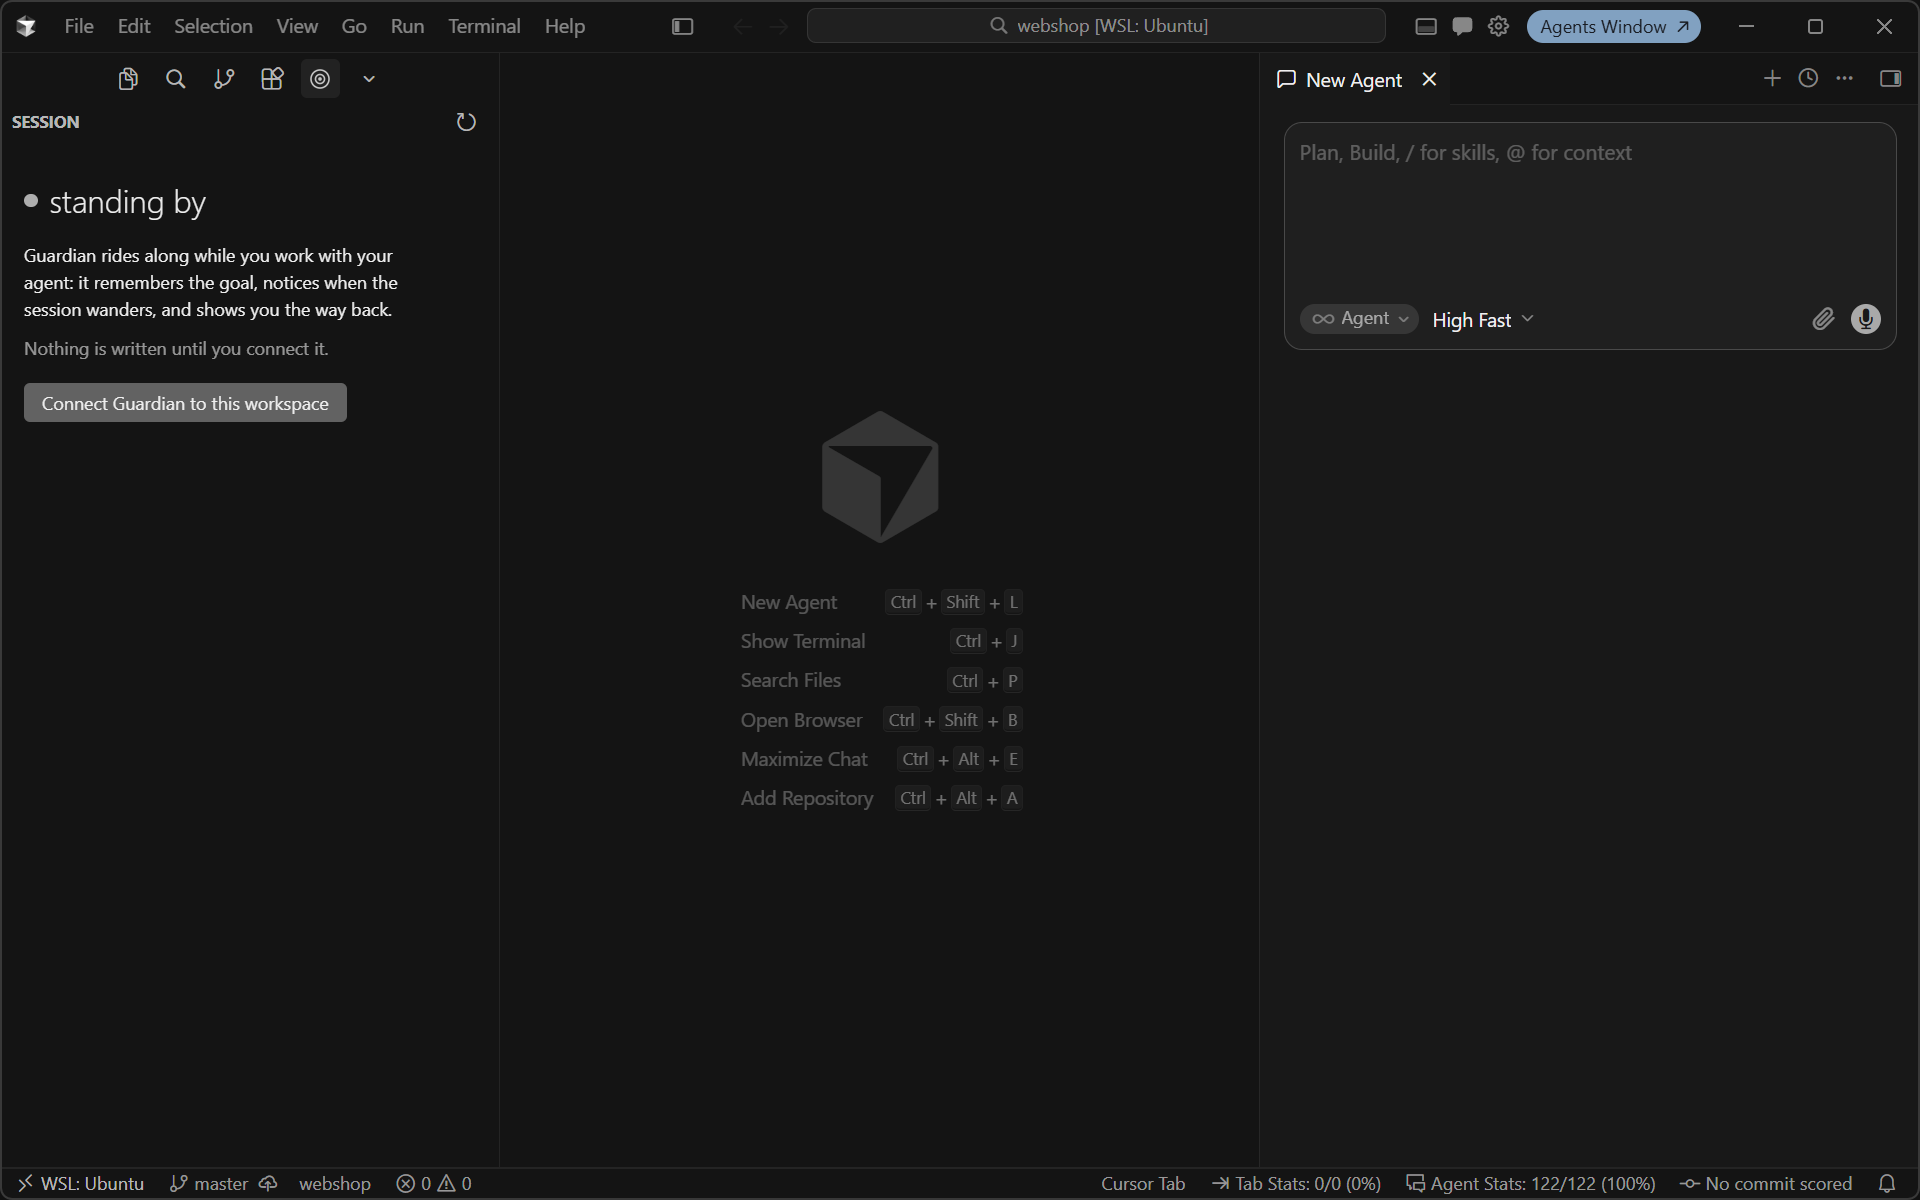
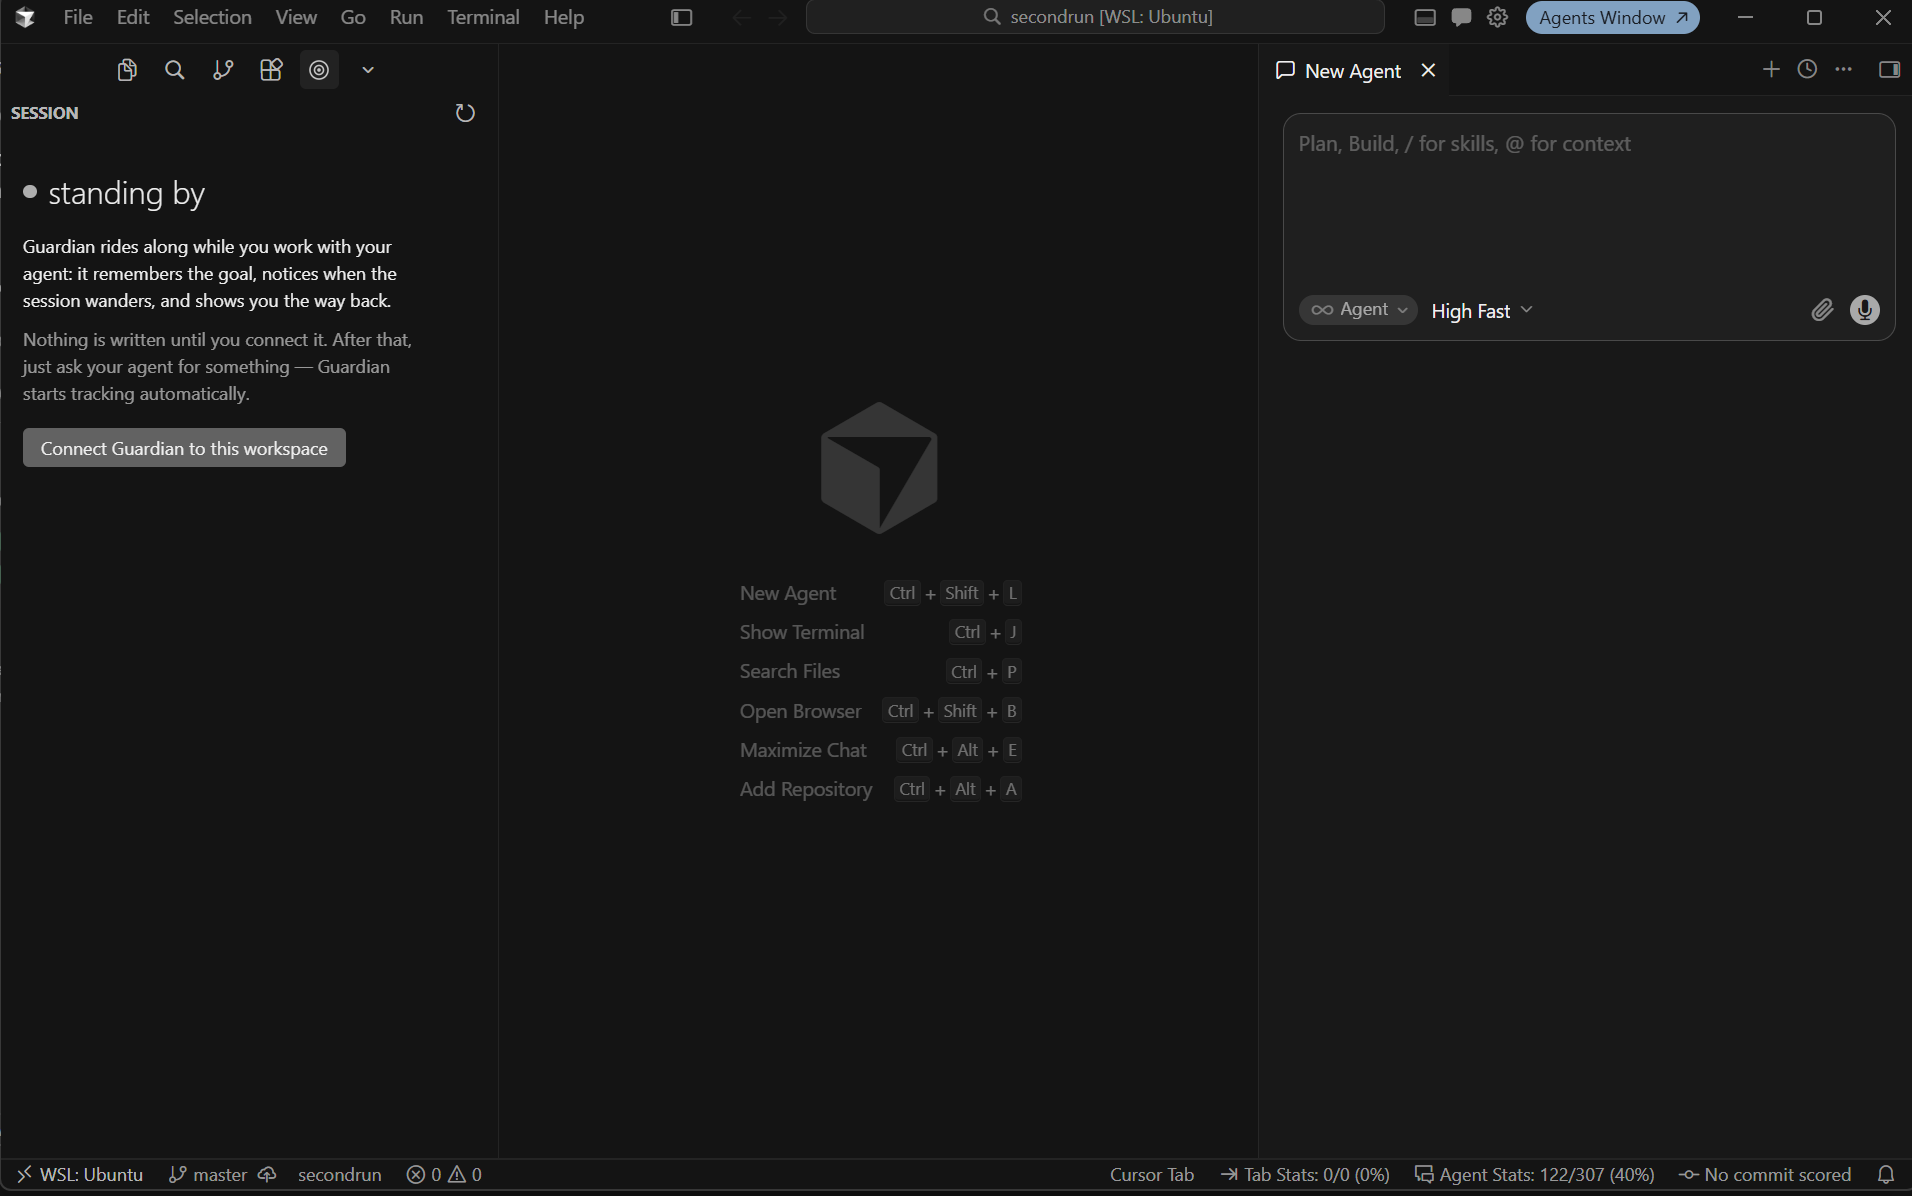
Fix first-run tutorial gaps found by walking it in two fresh workspaces
Followed "Your first 10 minutes" to the letter as a new user (headed
Cursor, fresh user-level state, two untouched projects). Three gaps:

- Step 2: the Guardian icon hides behind the sidebar icon row's overflow
  chevron in a fresh workspace; the step now points at the chevron and
  offers the Show Panel palette fallback
- Step 3: the wizard is three questions plus a .gitignore prompt, so it
  no longer says "three-question wizard"; Esc-skip claim verified live
- Step 4: the "Tracking: ..." reply only appears on the skipped-wizard
  (empty-goal) path; the step now describes both outcomes honestly
  (verified live: "Tracking: add pause and resume to the kitchen timer
  -- done when ...", goal + 3 agent-authored criteria from one request)

Also recaptured s6-welcome.png from the live first-run (current welcome
copy, Guardian icon visible in the row) and rebuilt hero.gif frame 1
with it. Dogfood findings recorded in docs/content-plan.md.

diff --git a/packages/cursor-goal-guardian-extension/README.md b/packages/cursor-goal-guardian-extension/README.md
@@ -29,21 +29,27 @@ steps, and step 4 is the whole trick.
 **1. Install** from Open VSX (you're here). Nothing happens yet — Guardian
 stays silent until invited.
 
-**2. Open the panel.** Click the target icon in the left icon bar. You'll see
-this:
+**2. Open the panel.** At the top of the file sidebar there's a small row of
+icons ending in a **∨** — click the ∨ and pick **Goal Guardian** (the target).
+It stays in the row after that. (Or press `Ctrl+Shift+P` and run "Goal
+Guardian: Show Panel".) You'll see this:
 
 <img src="https://raw.githubusercontent.com/khalidsaidi/cursor-goal-guardian/main/packages/cursor-goal-guardian-extension/images/store/s6-welcome.png" alt="The welcome panel" width="800" />
 
-**3. Click "Connect Guardian to this workspace."** A three-question wizard
-asks what you're building (you can Esc-skip all of it — step 4 works anyway).
+**3. Click "Connect Guardian to this workspace."** It asks three questions
+about what you're building, plus one housekeeping question — and pressing
+**Esc through all of them is completely fine** (step 4 works either way).
 Guardian writes its files into a small `.cursor/goal-guardian` folder in your
 project. You never need to open it.
 
 <img src="https://raw.githubusercontent.com/khalidsaidi/cursor-goal-guardian/main/packages/cursor-goal-guardian-extension/images/store/s9-setup.png" alt="The setup wizard" width="800" />
 
 **4. Ask your agent for something — like you always do.** That's the whole
-trick: your request *becomes* the goal. The agent answers with one line —
-"Tracking: … — done when …" — and gets to work. No ceremony.
+trick. If you skipped the questions, your request *becomes* the goal: the
+agent answers with one line — "Tracking: … — done when …" — writes its own
+"done when" list, and gets to work. If you typed a goal in step 3, the agent
+finds it already on the record and starts moving the board instead. Either
+way: no ceremony.
 
 <img src="https://raw.githubusercontent.com/khalidsaidi/cursor-goal-guardian/main/packages/cursor-goal-guardian-extension/images/store/s2-hub-tracking.png" alt="A plain request becomes a tracked goal" width="800" />
 

diff --git a/docs/content-plan.md b/docs/content-plan.md
@@ -71,6 +71,24 @@ ID `goalGuardian.gettingStarted`, title "Get started with Goal Guardian":
 6. **The Command Center** — media: center still; completes on
    `onCommand:goalGuardian.commandCenter`
 
+## First-run dogfood (2026-08-25)
+Followed "Your first 10 minutes" to the letter in two untouched workspaces
+(headed Cursor, fresh user-level MCP state). Three gaps found and fixed in the
+README:
+1. The Guardian icon hides behind the sidebar icon row's **∨** overflow menu
+   in a fresh workspace — step 2 now points at the ∨ and offers the palette
+   fallback.
+2. The wizard is 3 questions + a .gitignore prompt — step 3 no longer says
+   "three-question".
+3. The "Tracking: …" reply only appears on the Esc-skip (empty-goal) path;
+   with a wizard-set goal the agent finds the goal on the record instead —
+   step 4 now describes both outcomes.
+Verified working with no caveats: inert install, Esc-skip wiring, skills in
+the `/` menu and hooks live with **no reload**, zero approval popups, agent
+auto-declares goal + authors criteria ("Tracking: add pause and resume to the
+kitchen timer — done when …"), checklist self-ticks, `/guardian` briefing in
+~3s, status bar item. s6-welcome.png recaptured from the live first-run.
+
 ## Execution order
 P1 tooling (ffmpeg) → P2 README rewrite to the new architecture (stills
 already staged) → P3 walkthrough contribution + step markdown files →
